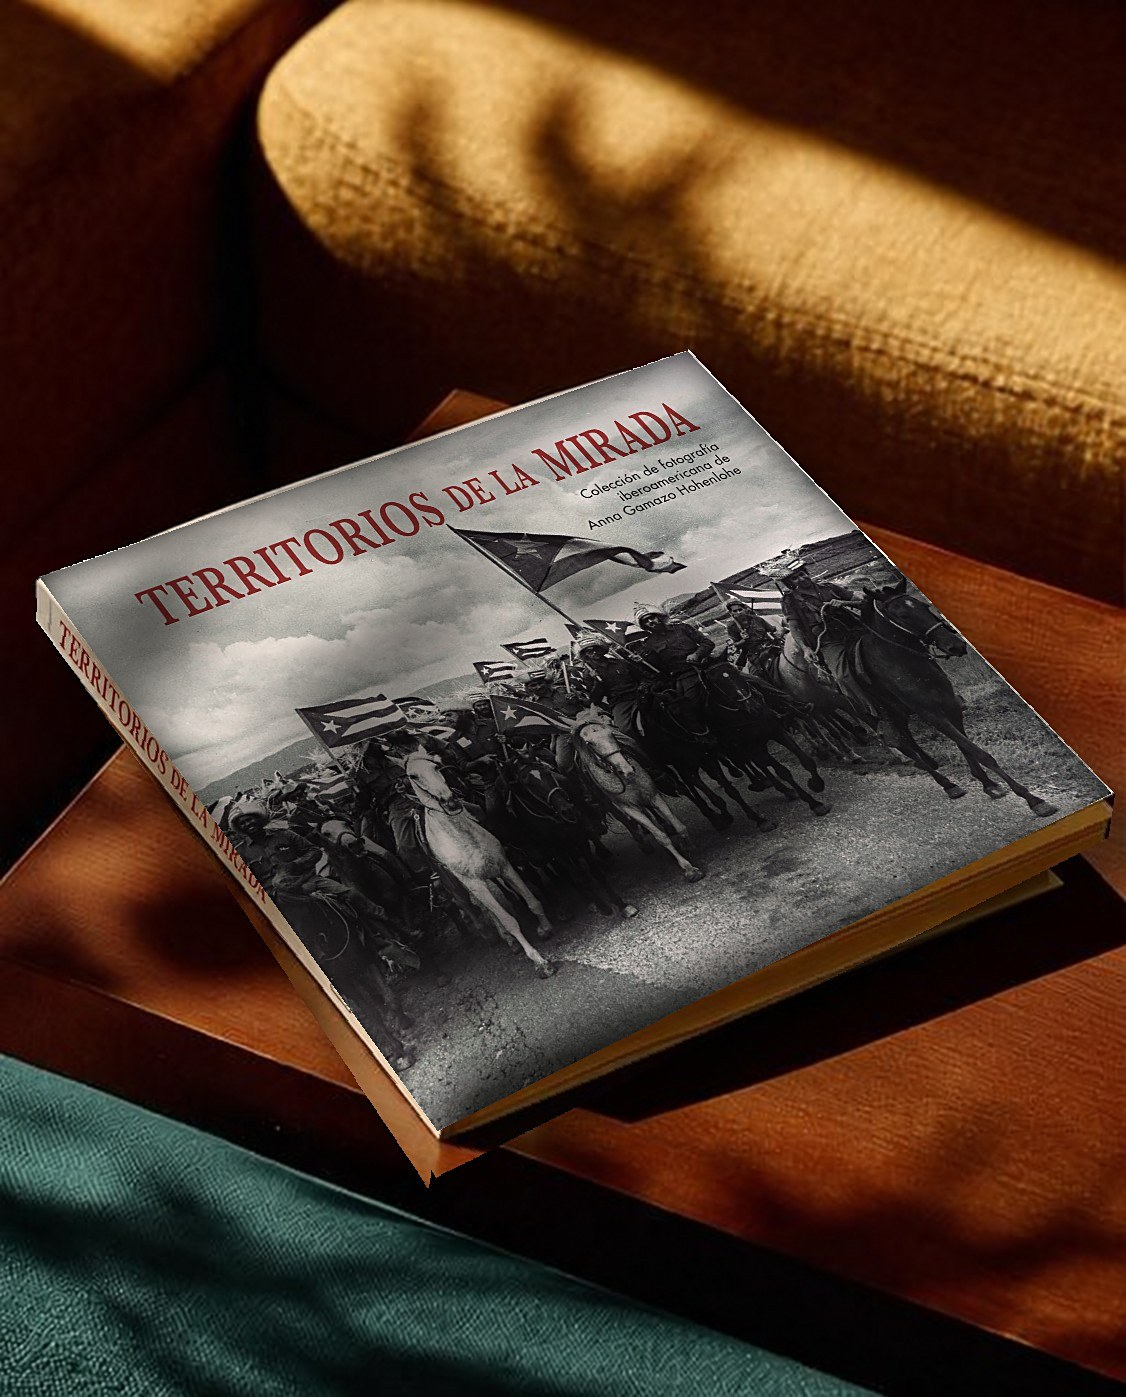
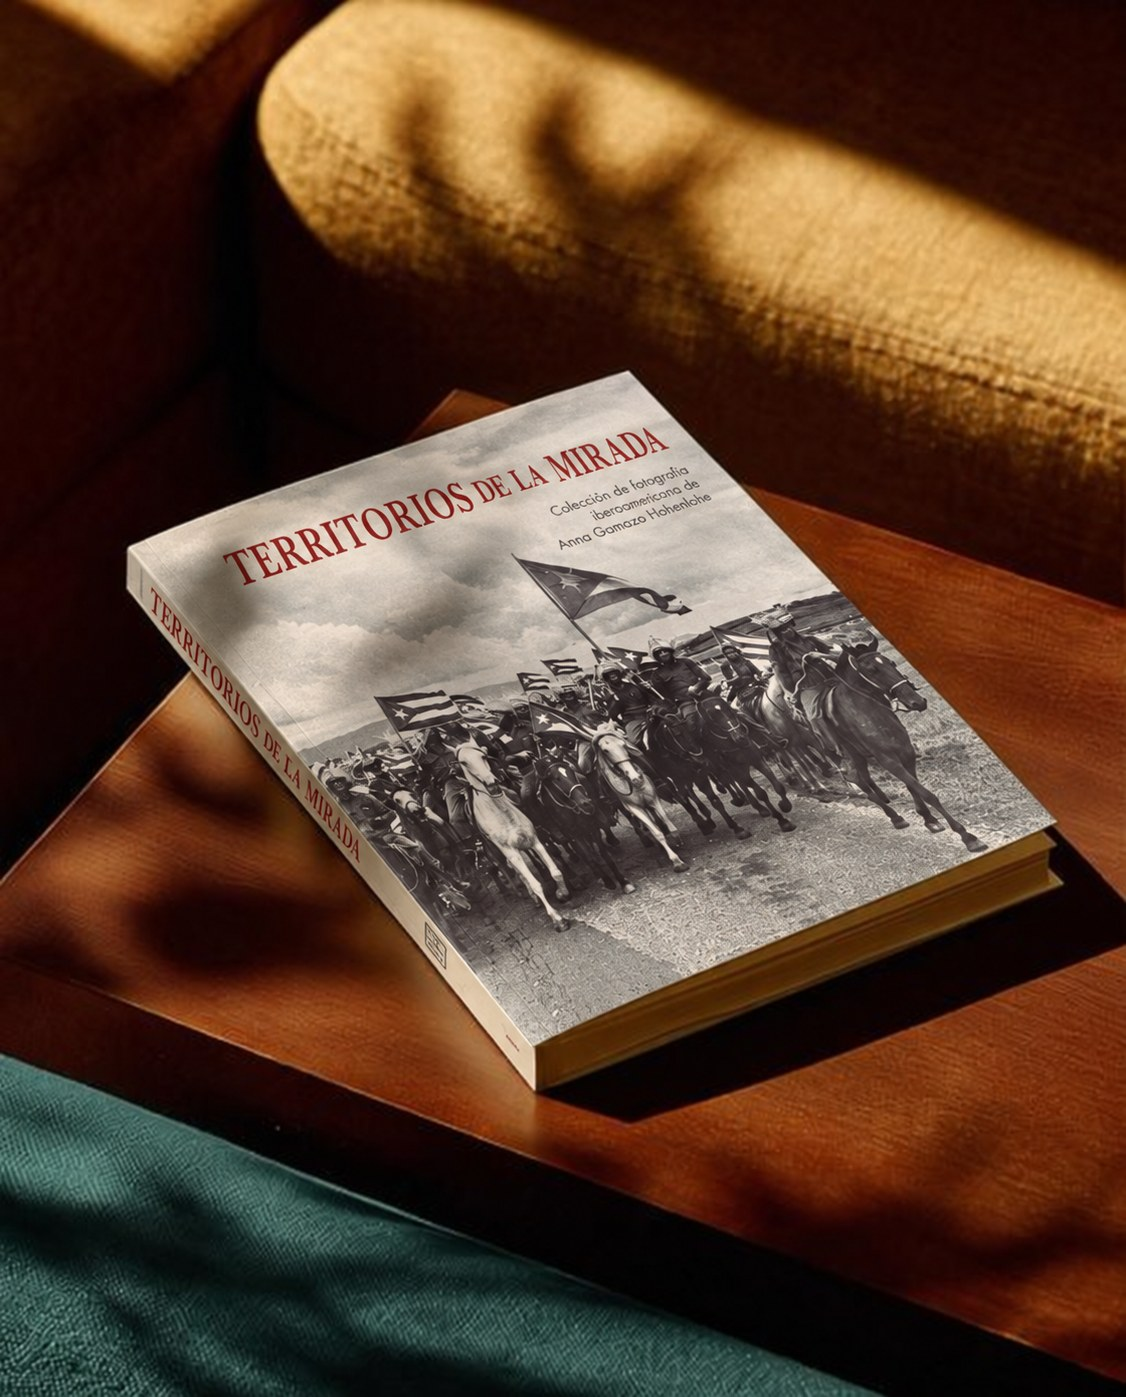
Territorios vuelve a la foto anterior; En noir sin bordes blancos; menos grano en Coín
Claude-Session: https://claude.ai/code/session_014ZHEqD2MNxqjAg6cJYzQom

Changed region(s): [[0.0311, 0.2462, 1.0, 0.8618]]

diff --git a/web/scripts/en_noir_sin_bordes.py b/web/scripts/en_noir_sin_bordes.py
@@ -1,0 +1,24 @@
+import numpy as np, sys
+from PIL import Image, ImageDraw
+from scipy.ndimage import binary_dilation, gaussian_filter
+src,dst=sys.argv[1:3]
+im=Image.open(src).convert('RGB');W,H=im.size;a=np.array(im).astype(float)
+q=[(544,510),(1116,750),(744,1424),(120,1196)]
+m=Image.new('L',(W,H));ImageDraw.Draw(m).polygon(q,fill=255);m=np.array(m)>127
+band=binary_dilation(m,iterations=40)
+lum=a.mean(2);sat=a.max(2)-a.min(2)
+claro=band&(lum>165)&(sat<40)
+# franja del canto: lado derecho e inferior del libro (las páginas blancas)
+f=Image.new('L',(W,H));d=ImageDraw.Draw(f)
+TR,BR,BL=np.array(q[1]),np.array(q[2]),np.array(q[3])
+for p0,p1 in [(TR,BR),(BR,BL)]:
+    n=np.array([p1[1]-p0[1],-(p1[0]-p0[0])],float);n/=np.linalg.norm(n)
+    d.polygon([tuple(p0-n*2),tuple(p1-n*2),tuple(p1+n*16),tuple(p0+n*16)],fill=255)
+canto=np.array(f)>127
+claro=(claro|(canto&(lum>70)&(sat<50)))
+claro=binary_dilation(claro,iterations=1)&band&(lum>70)
+w=gaussian_filter(claro.astype(float),1.2)
+oscuro=np.clip(a*.22,0,255)
+a=a*(1-w[...,None])+oscuro*w[...,None]
+Image.fromarray(a.astype('uint8')).save(dst,quality=92)
+print(claro.sum())

diff --git a/web/scripts/textura_libro.py b/web/scripts/textura_libro.py
@@ -39,7 +39,7 @@ def textura(foto, salida, cubiertas, acabado, semilla=3):
             # brillos puntuales muy finos de la película
             efecto += np.clip(blur(rng.normal(0, 1, (H, W)), 1.5) * 8 - 6, 0, None) * 2
         else:  # relieve: la tinta y el dibujo se levantan del papel
-            efecto += grano * 3.2
+            efecto += grano * 1.0
             l = blur(lum, 1.1)
             emb = (np.roll(l, (1, 1), (0, 1)) - np.roll(l, (-1, -1), (0, 1)))
             efecto += np.clip(emb, -40, 40) * .45
